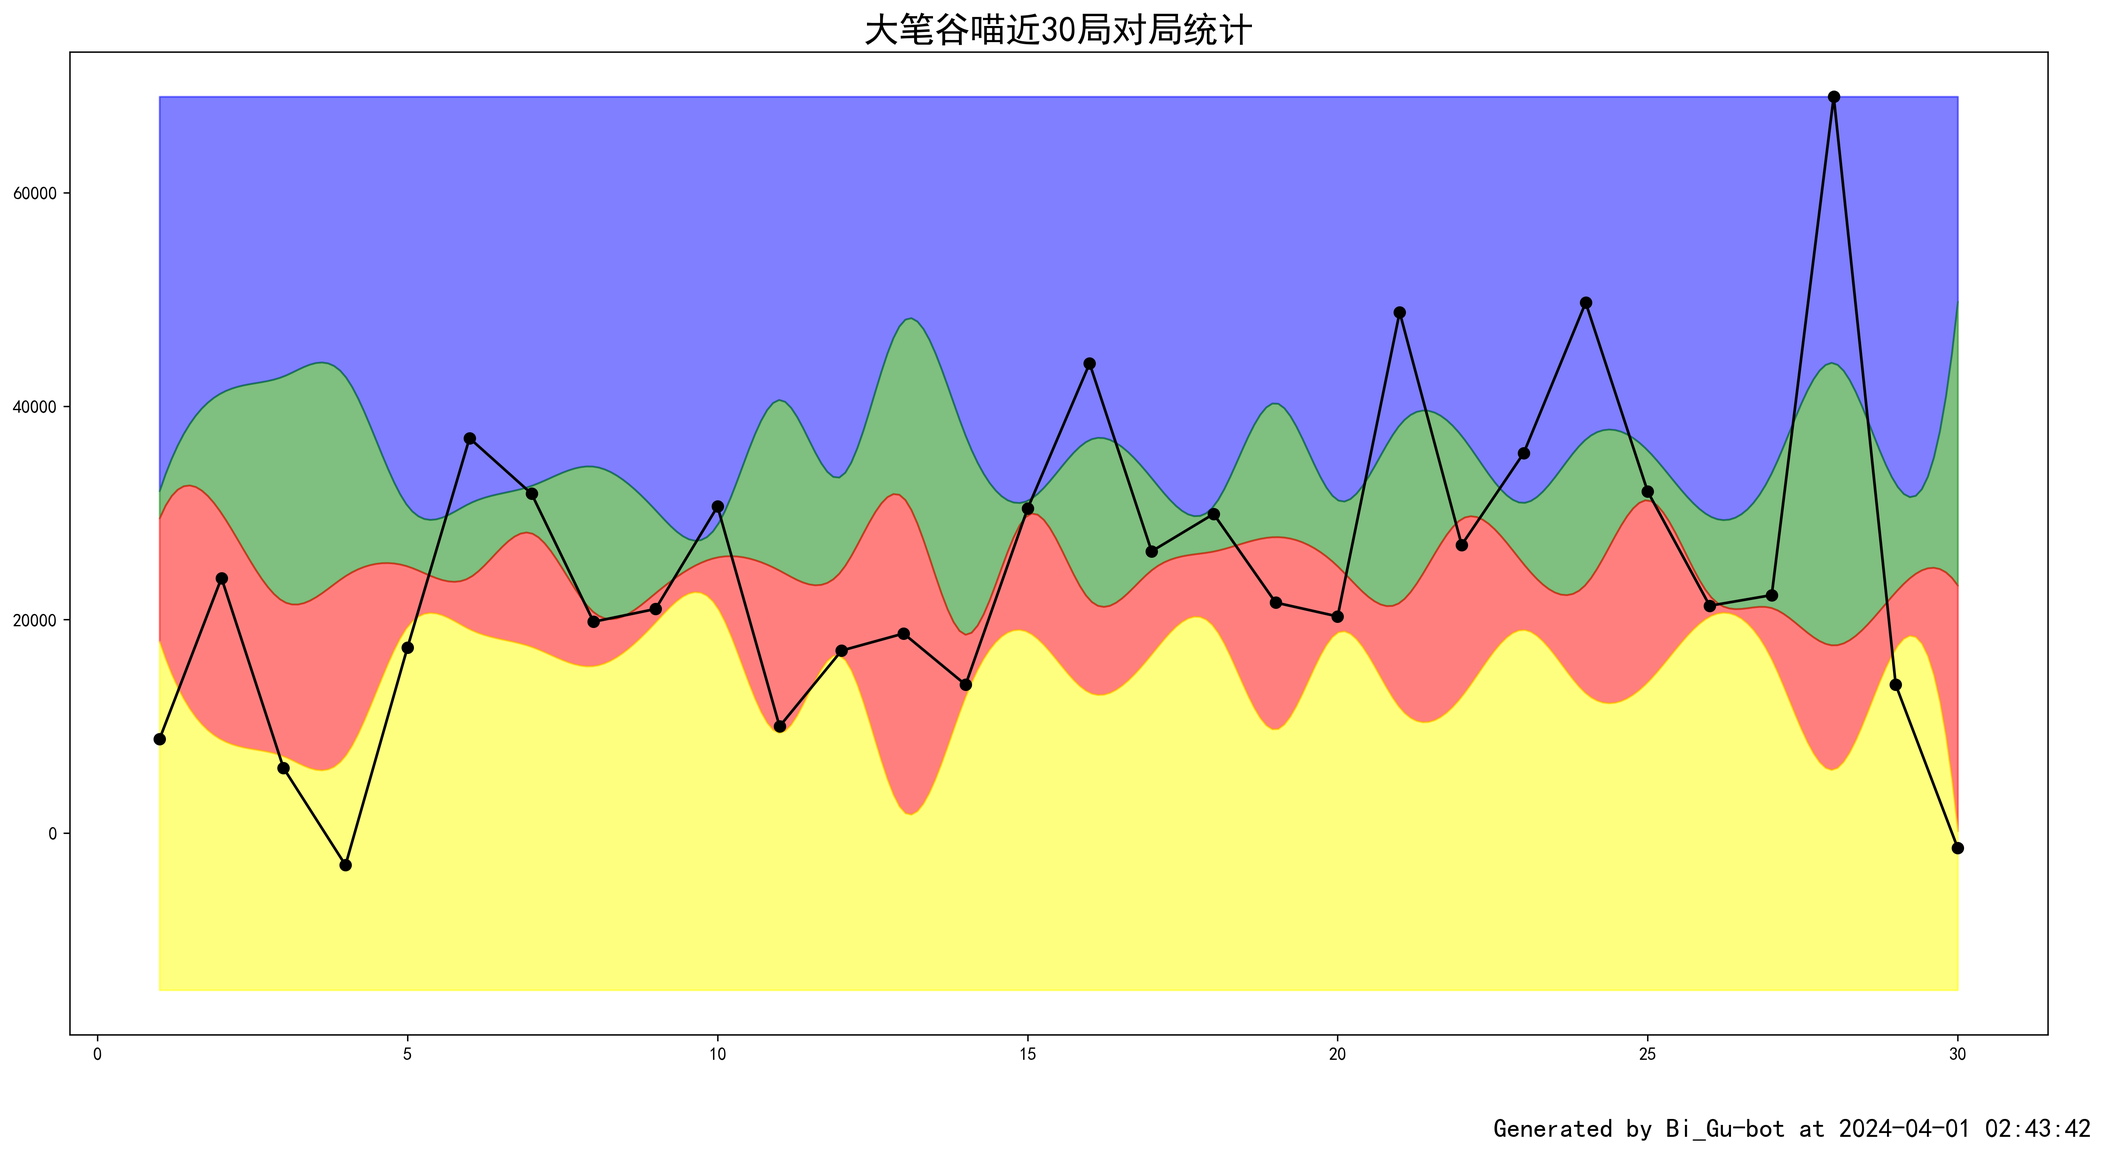
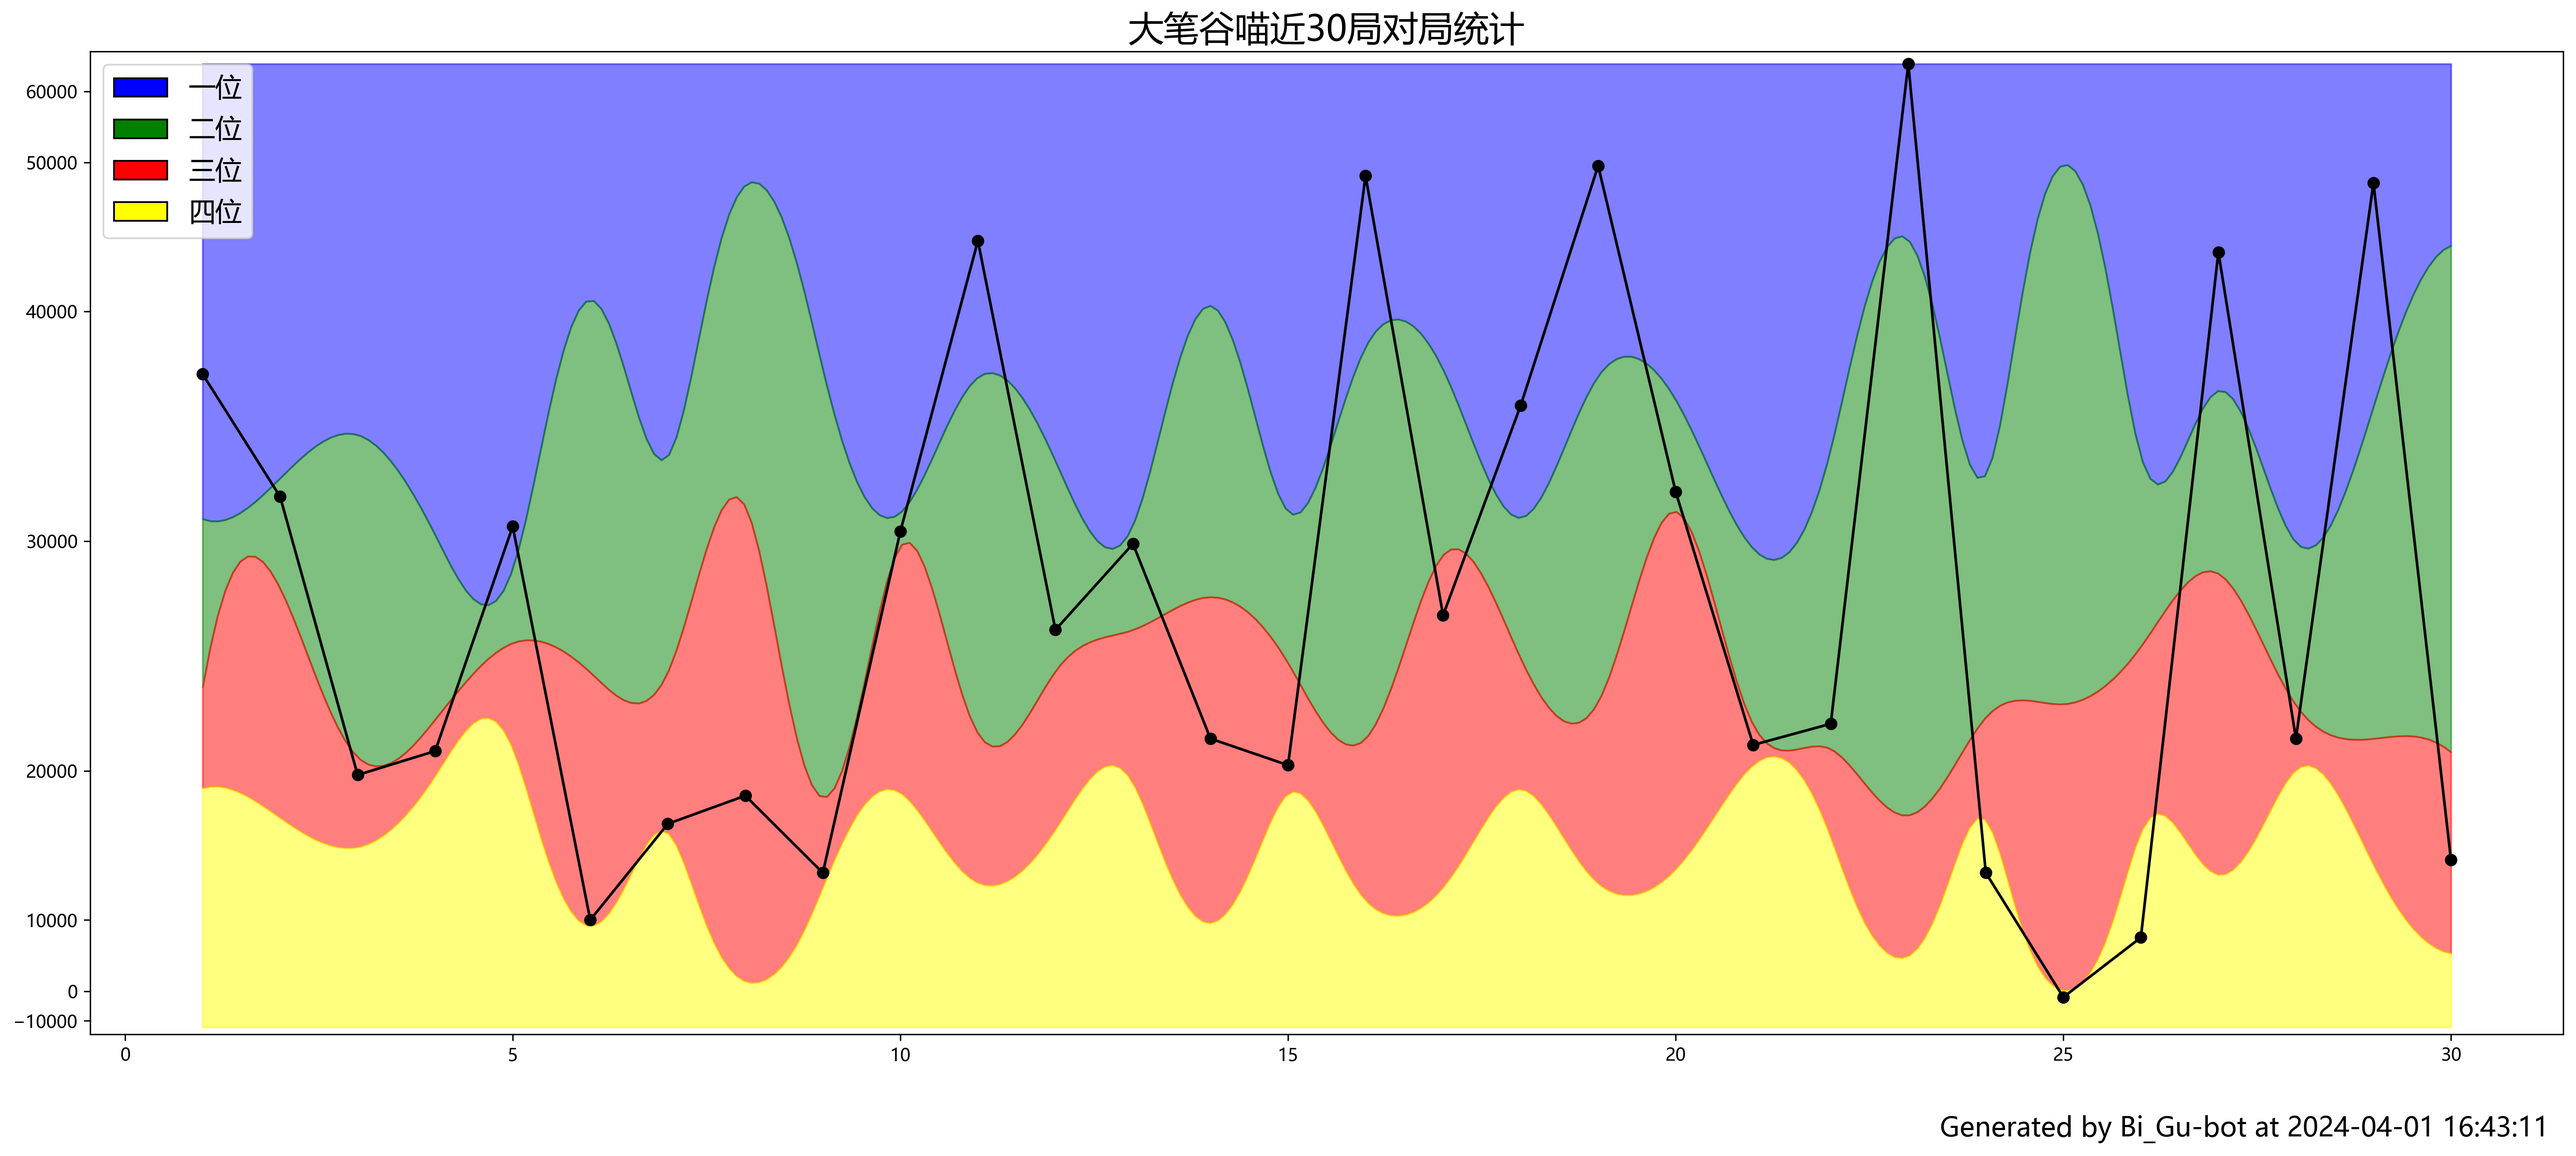
better graph display

diff --git a/src/plugins/mahjong/mahjongsoul.py b/src/plugins/mahjong/mahjongsoul.py
@@ -1,42 +1,56 @@
-import requests, datetime, os, time
+import requests, datetime, os
 from matplotlib import pyplot as plt
+from matplotlib.patches import Patch
 from scipy.interpolate import interp1d
+from nonebot.adapters.onebot.v11.message import MessageSegment
 from typing import List, Dict
 import numpy as np
-from nonebot.adapters.onebot.v11.message import MessageSegment
+import time
+
+def forward(y):
+    return 25000 / (1 + np.exp((30000 - y) / 10000))
+
+def reverse(y):
+    return 30000 - 10000 * np.log(25000 / y - 1)
 
 def get_user_data(username: str) -> MessageSegment:
     raw_user_data, rank_scores = get_raw_user_data(username)
     scores = [game["score"] for game in raw_user_data]
     index = [i+1 for i in range(len(scores))]
     plt.style.use('default')
-    plt.rcParams["font.sans-serif"] = ["SimHei"]
-    figure = plt.figure(figsize=(20, 10))
+    plt.rcParams["font.sans-serif"] = ["Microsoft YaHei"]
+    figure = plt.figure(figsize=(25, 10))
     plt.plot(index, scores, marker='o', color = "black")
     min_score = min([min(rank_score) for rank_score in rank_scores])
     max_score = max([max(rank_score) for rank_score in rank_scores])
     _rank_scores = [[max_score] + scores + [min_score] for scores in rank_scores]
     color_map = {0: 'blue', 1: 'green', 2: 'red', 3: 'yellow'}
     for rank in [0, 1, 2, 3]:
+        x_values = index
         y_low = [(scores[rank + 2] + scores[rank + 1]) / 2 for scores in _rank_scores] if rank != 3 else [min_score] * len(index)
         y_high = [(scores[rank + 1] + scores[rank]) / 2 for scores in _rank_scores] if rank != 0 else [max_score] * len(index)
-        f_low = interp1d(index, y_low, kind = 'cubic')
-        f_high = interp1d(index, y_high, kind = 'cubic')
+        f_low = interp1d(x_values, y_low, kind = 'cubic')
+        f_high = interp1d(x_values, y_high, kind = 'cubic')
         x_smooth = np.linspace(1, len(index), 300)
-        y_low_smooth = f_low(x_smooth)
-        y_high_smooth = f_high(x_smooth)
-        plt.fill_between(x_smooth, y_high_smooth, y_low_smooth, color = color_map[rank], alpha = 0.5)
+        y_low = f_low(x_smooth)
+        y_high = f_high(x_smooth)
+        plt.fill_between(x_smooth, y_high, y_low, color = color_map[rank], alpha = 0.5)
     plt.title(f"{username}近30局对局统计", fontsize = 20)
-    figure.text(0.8, 0.03, f"Generated by Bi_Gu-bot at {datetime.datetime.now().strftime('%Y-%m-%d %H:%M:%S')}", ha='center', fontsize = 15)
+    figure.text(0.8, 0.03, "\u00A9" + f"Generated by Bi_Gu-bot at {datetime.datetime.now().strftime('%Y-%m-%d %H:%M:%S')}", 
+             ha='center', fontsize = 15)
+    plt.yscale("function", functions=(forward, reverse))
+    plt.ylim(min_score - 10000, max_score + 10000)
+    plt.yticks(np.arange(int(min_score // 10000 + 1) * 10000, int(max_score // 10000 + 1) * 10000, 10000))
+    legend = {"一位": "blue", "二位": "green", "三位": "red", "四位": "yellow"}
+    legend_elements = [Patch(facecolor=color, edgecolor='black', label=label) for label, color in legend.items()]
+    plt.legend(handles=legend_elements, loc = "upper left", fontsize = 15)
     plt.savefig(os.getcwd() + f"/src/data/mahjong/{username}.png", dpi = 300, bbox_inches = "tight")
     return MessageSegment.image("file:///" + os.getcwd() + f"/src/data/mahjong/{username}.png")
-
-
 
 def get_raw_user_data(username: str) -> tuple[List[Dict], List[List[int]]]:
     url = f"https://5-data.amae-koromo.com/api/v2/pl4/search_player/{username}?limit=20&tag=all"
     user_id = requests.get(url).json()[0]["id"]
-    _url = f"https://5-data.amae-koromo.com/api/v2/pl4/player_records/{user_id}/{int(time.time()*1000)}/1262304000000?limit=141&mode=16,12,9,8&descending=true"
+    _url = f"https://5-data.amae-koromo.com/api/v2/pl4/player_records/{user_id}/{int(time.time() * 1000)}/1262304000000?limit=141&mode=16,12,9,8&descending=true"
     user_data = requests.get(_url).json()
     res, rank_scores = [], []
     for game in user_data:
